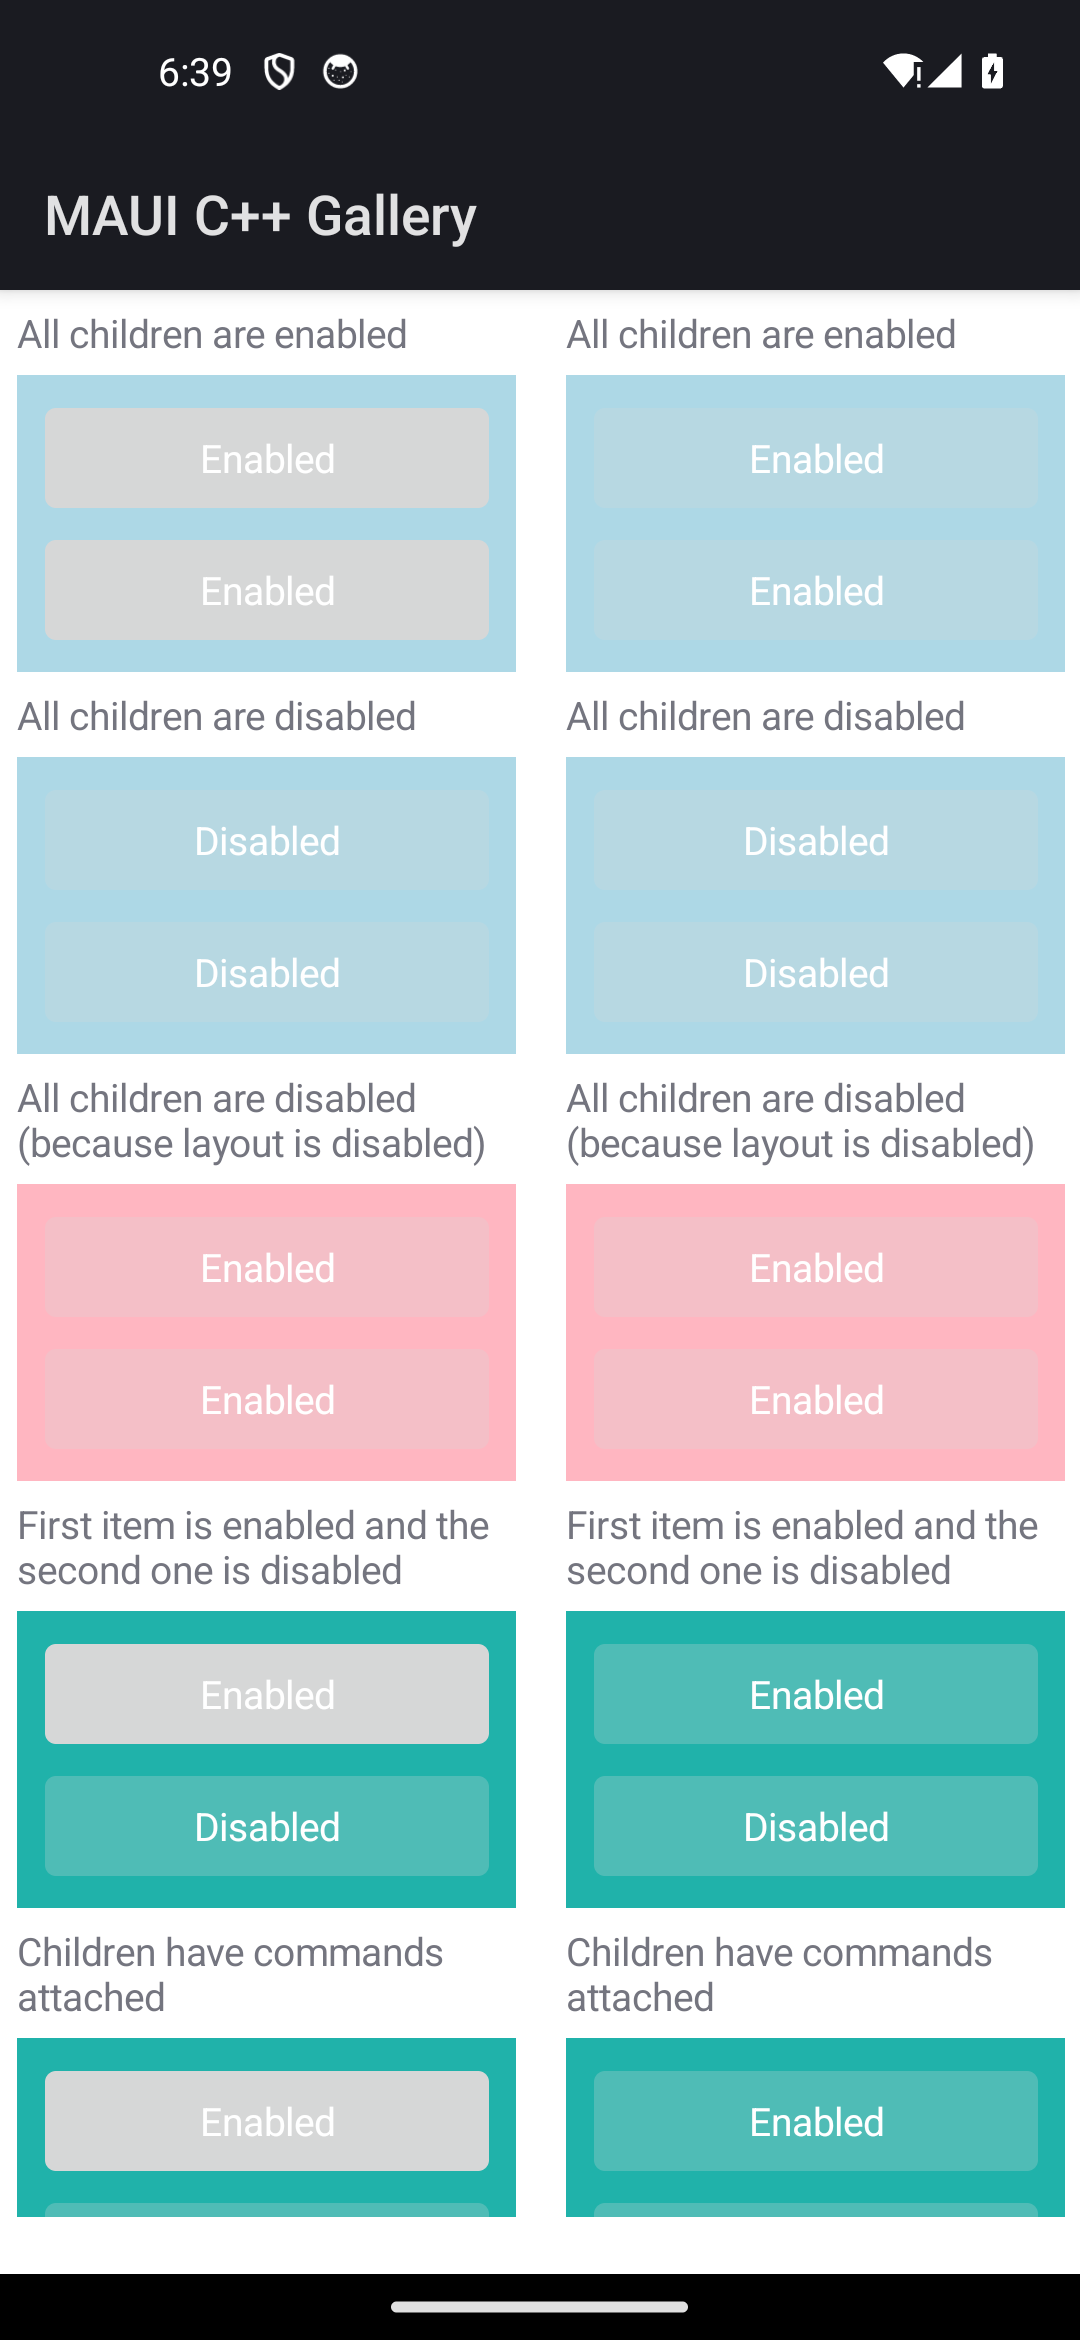
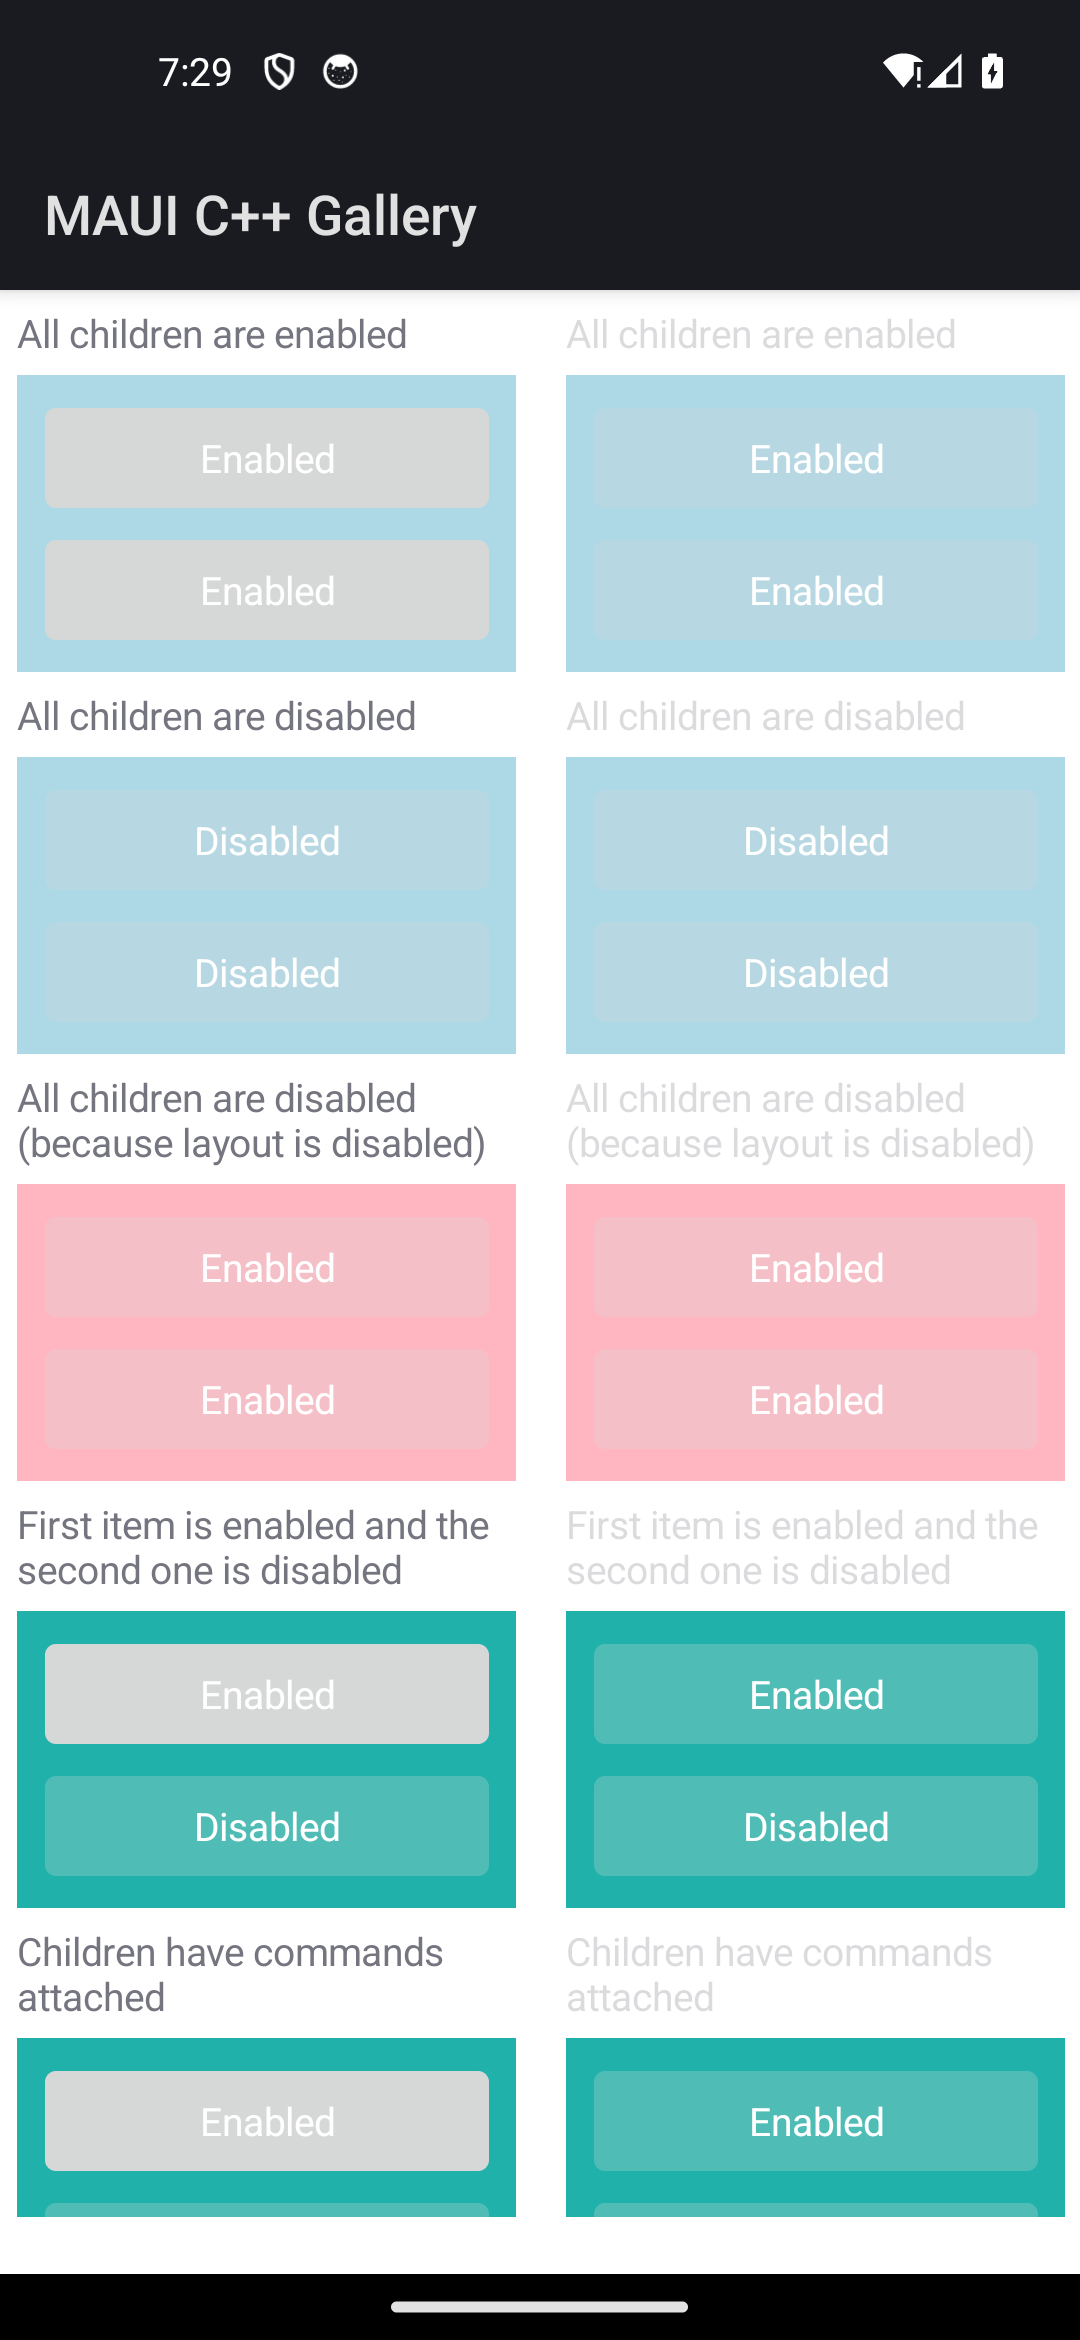
fix(android): dim labels under a disabled layout (layout_is_enabled parity RED)
The Android label handler captured the TextView's default text color via
getCurrentTextColor() and, on the unset-TextColor branch, re-applied it with
setTextColor(int). That collapses the theme's textColorPrimary ColorStateList
(which encodes the disabled-state dimming) into a single flat color, so a label
whose effective IsEnabled is false — e.g. every heading in layout_is_enabled's
whole-layout-disabled right column — never dimmed. MAUI's
TextViewExtensions.UpdateTextColor is a no-op when TextColor is null, leaving
the native multi-state ColorStateList intact so setEnabled(false) dims the text.

Mirror C# exactly: on the unset branch, touch nothing. Removed the capture and
the now-dead default_text_color field. The unset default is still the correct
theme gray (the ColorStateList's enabled state), so the prior black-vs-gray fix
is preserved; the disabled dimming is now restored.

The IsEnabled parent->child cascade (element::refresh_is_enabled_subtree ->
map_is_enabled -> update_is_enabled -> setEnabled) was already correct and
green; this was purely the native disabled APPEARANCE not following on labels.

Verified on emulator-5554: layout_is_enabled right-column headings now dim
matching MAUI; left (enabled) column and the button/fonts regression pages stay
full-contrast; android_label suite (14) + is_enabled_cascade (5) green.

diff --git a/port/cpp/src/platform/android/label_handler.cpp b/port/cpp/src/platform/android/label_handler.cpp
@@ -704,21 +704,13 @@ namespace maui::core
                 clear_pending(env.get());
             }
         }
-        // LabelHandler._labelTextColorDefault: capture the TextView's default text color ONCE, from the
-        // freshly-created widget, before any map_* touches it (TextView.getCurrentTextColor returns the
-        // theme's textColorPrimary — a dark gray, ~0xDE000000, NOT pure black). map_text_color restores
-        // this on the unset branch, mirroring TextViewExtensions.UpdateTextColor's "leave the native
-        // default when TextColor is null" behavior. (The button partial hard-codes white instead because
-        // its Material-styled default label IS white; a plain TextView's captured default is the theme
-        // gray, so the port reads it rather than assuming a constant.)
-        if (jmethodID get_current_text_color = cache.method(env.get(), k_text_view_class, "getCurrentTextColor", "()I"))
-        {
-            const jint captured = env->CallIntMethod(widget.get(), get_current_text_color);
-            if (!clear_pending(env.get()))
-            {
-                platform->default_text_color = static_cast<int>(captured);
-            }
-        }
+        // TextColor default: the port does NOT capture-and-restore the TextView's default text color. MAUI's
+        // TextViewExtensions.UpdateTextColor is a no-op when Label.TextColor is null, so the freshly-created
+        // TextView's theme default — the textColorPrimary ColorStateList (a dark gray, ~0xDE000000, that also
+        // encodes the disabled-state dimming) — stays in place untouched. map_text_color pushes setTextColor
+        // only for an EXPLICIT color; leaving the native ColorStateList alone on unset both yields the
+        // correct default gray AND preserves the disabled dimming (layout_is_enabled). Re-applying a captured
+        // getCurrentTextColor() int would collapse that ColorStateList to a flat color and kill the dimming.
         platform->native = env->NewGlobalRef(widget.get()); // released in ~label_platform
         return platform;
     }
@@ -769,17 +761,22 @@ namespace maui::core
             return;
         }
         // TextViewExtensions.UpdateTextColor: `if (textColor != null) SetTextColor(textColor.ToPlatform())`
-        // — MAUI sets the color ONLY when non-null, leaving the TextView's captured default (the theme's
-        // textColorPrimary, a dark GRAY) in place when Label.TextColor is unset. The port models TextColor
-        // as a NON-nullable value type whose default-constructed value (color{}) is opaque BLACK, so
-        // pushing view.text_color() unconditionally set BLACK text on every unset (default) label — the
-        // "black vs MAUI gray" Android parity diff (fonts / formatted_text / absolute_layout /
+        // — MAUI sets the color ONLY when non-null and does NOTHING when Label.TextColor is unset, so the
+        // TextView keeps the multi-state ColorStateList the theme installed for textColorPrimary. The port
+        // models TextColor as a NON-nullable value type whose default-constructed value (color{}) is opaque
+        // BLACK, so pushing view.text_color() unconditionally set BLACK text on every unset (default) label
+        // — the "black vs MAUI gray" Android parity diff (fonts / formatted_text / absolute_layout /
         // basic_grouping / basic_swipe / behaviors). Discriminate on whether the property was explicitly
         // SET (BindableObject.IsSet), the faithful stand-in for C#'s `!= null` — exactly as
         // label_handler.mm does on iOS for the unset-color sentinel collision (a value compare can't be
-        // used: an explicit TextColor=Black would equal the default and be misread as unset). Unset →
-        // restore the captured default_text_color (the LabelHandler._labelTextColorDefault twin, read from
-        // the freshly-created TextView in create_platform_view); explicit → push the ARGB int unchanged.
+        // used: an explicit TextColor=Black would equal the default and be misread as unset).
+        //
+        // On the UNSET branch, MIRROR C# exactly and touch NOTHING. The earlier port re-applied the captured
+        // getCurrentTextColor() int via setTextColor(int) — but that collapses the theme's per-state
+        // ColorStateList into a single flat color, which then never dims when the view (or an ancestor
+        // layout) is disabled. Leaving the native ColorStateList intact both keeps the correct default gray
+        // AND lets setEnabled(false) dim the text, matching MAUI's disabled appearance (layout_is_enabled's
+        // whole-layout-disabled column). setTextColor is called ONLY for an explicit color, never on unset.
         const auto* bindable = dynamic_cast<const maui::core::bindable_object*>(&view);
         const bool color_is_set = bindable != nullptr && bindable->is_property_set("text_color");
         if (color_is_set)
@@ -787,14 +784,9 @@ namespace maui::core
             call_void_int(env.get(), widget_of(*platform), "setTextColor",
                           static_cast<jint>(view.text_color().to_int()));
         }
-        else if (platform->default_text_color != 0)
-        {
-            // Restore the captured theme default (0 = capture failed → leave whatever the widget has,
-            // exactly as C#'s UpdateTextColor never calls SetTextColor when TextColor is null; NEVER push 0,
-            // which would be a fully-transparent = invisible text color).
-            call_void_int(env.get(), widget_of(*platform), "setTextColor",
-                          static_cast<jint>(platform->default_text_color));
-        }
+        // else: unset → leave the widget's original theme ColorStateList untouched (C# UpdateTextColor's
+        // null-TextColor path is a no-op). This preserves the disabled-state dimming the ColorStateList
+        // encodes — a flat setTextColor(default_text_color) would have destroyed it.
     }
 
     void label_handler::map_font(label_handler& handler, i_label& view)

diff --git a/port/cpp/include/maui/core/label_handler.hpp b/port/cpp/include/maui/core/label_handler.hpp
@@ -148,16 +148,11 @@ namespace maui::core
         void update_transform(const maui::core::transform_spec& value) override;
         void update_flow_direction(maui::core::flow_direction value) override;
         void update_semantics(const maui::core::semantics* value) override;
-
-        // LabelHandler._labelTextColorDefault twin: the TextView's captured default text color, read
-        // ONCE from the freshly-created android.widget.TextView (getCurrentTextColor, before any
-        // map_text_color) — the theme's textColorPrimary (a dark gray, ~0xDE000000, NOT pure black).
-        // map_text_color restores it on the unset (TextColor is-not-set) branch, exactly as C#'s
-        // TextViewExtensions.UpdateTextColor leaves the native default in place when TextColor is null.
-        // Kept theme-independent (whatever the freshly-built widget reports) so the Activity-less widget
-        // host and a themed activity each see their own correct default. 0 = "not captured" (a real
-        // default text color is opaque, never fully transparent 0x00000000).
-        int default_text_color = 0;
+        // NOTE: no captured-default-text-color field. MAUI's TextViewExtensions.UpdateTextColor is a no-op
+        // when Label.TextColor is null, so map_text_color leaves the freshly-created TextView's theme
+        // ColorStateList (textColorPrimary, ~0xDE000000 gray — which also encodes the disabled dimming)
+        // untouched on the unset branch. Re-applying a captured getCurrentTextColor() int would flatten that
+        // ColorStateList and break the disabled appearance (layout_is_enabled), so it is deliberately gone.
 #endif
     };
 
